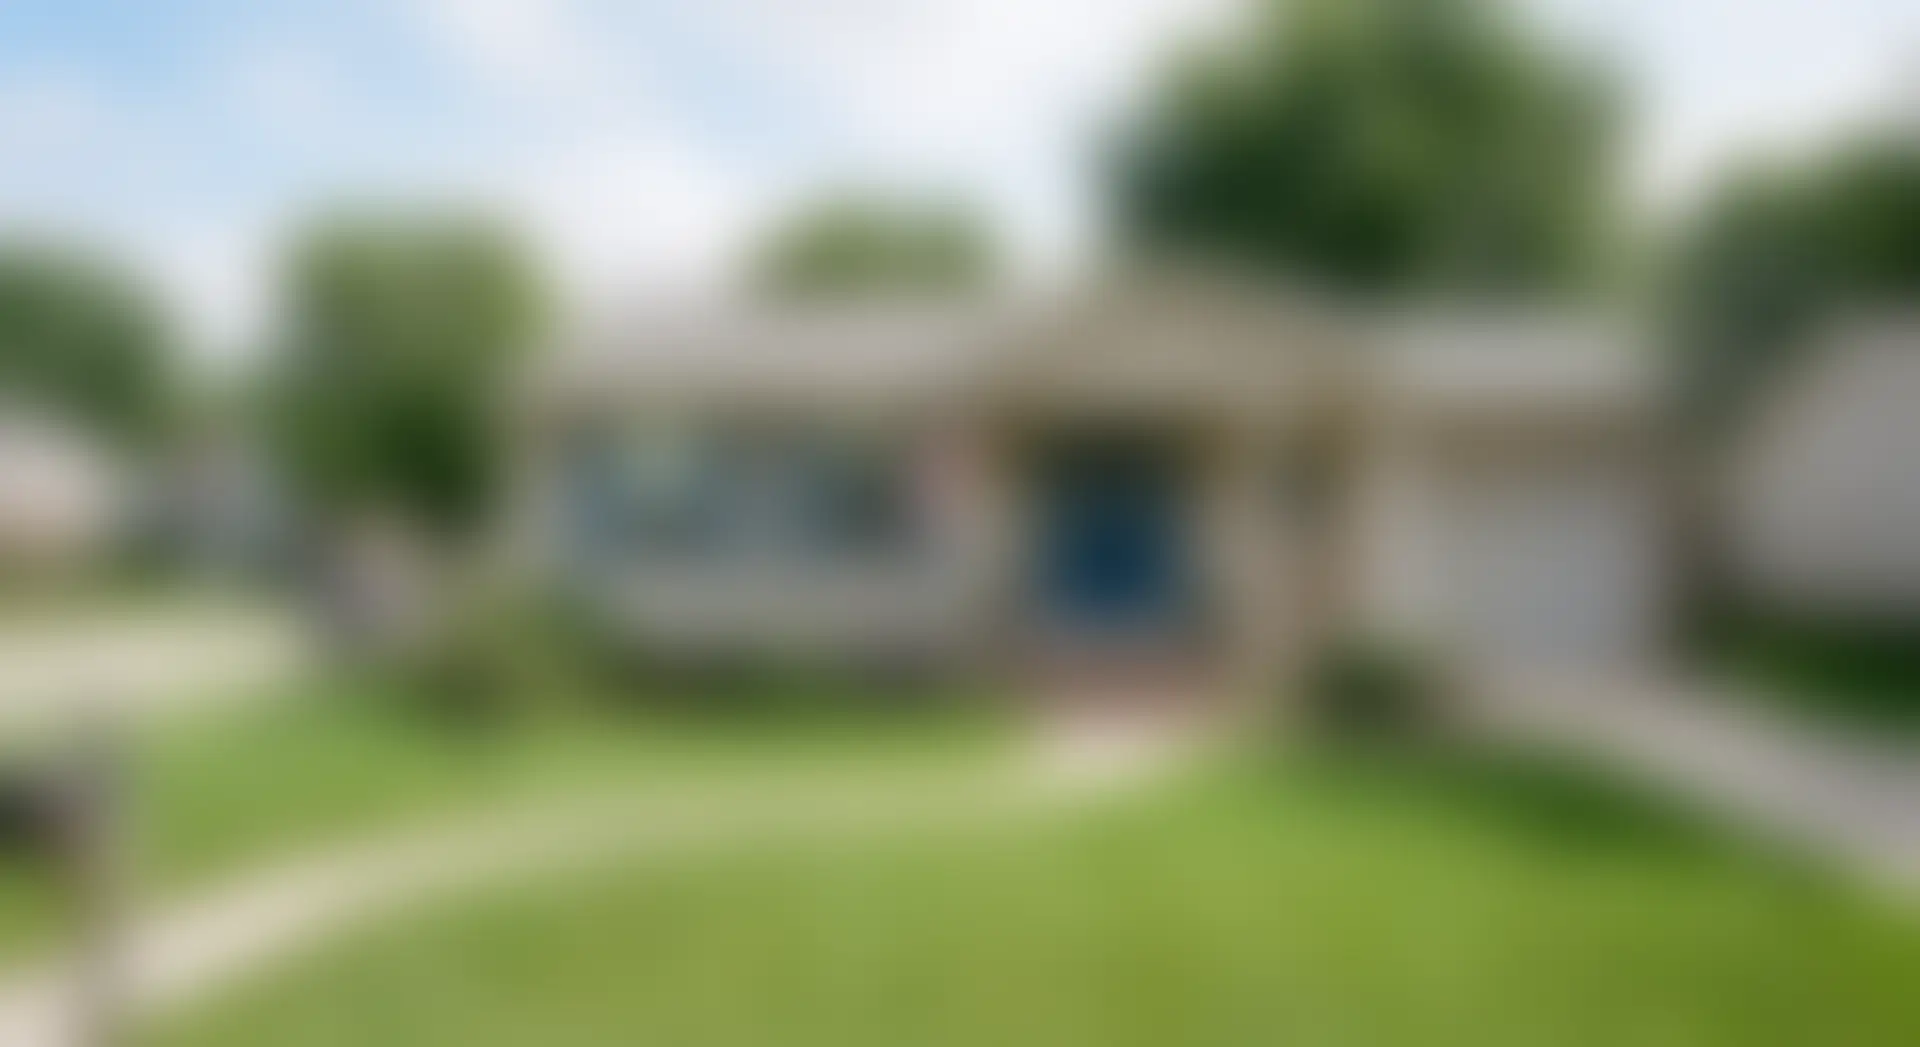
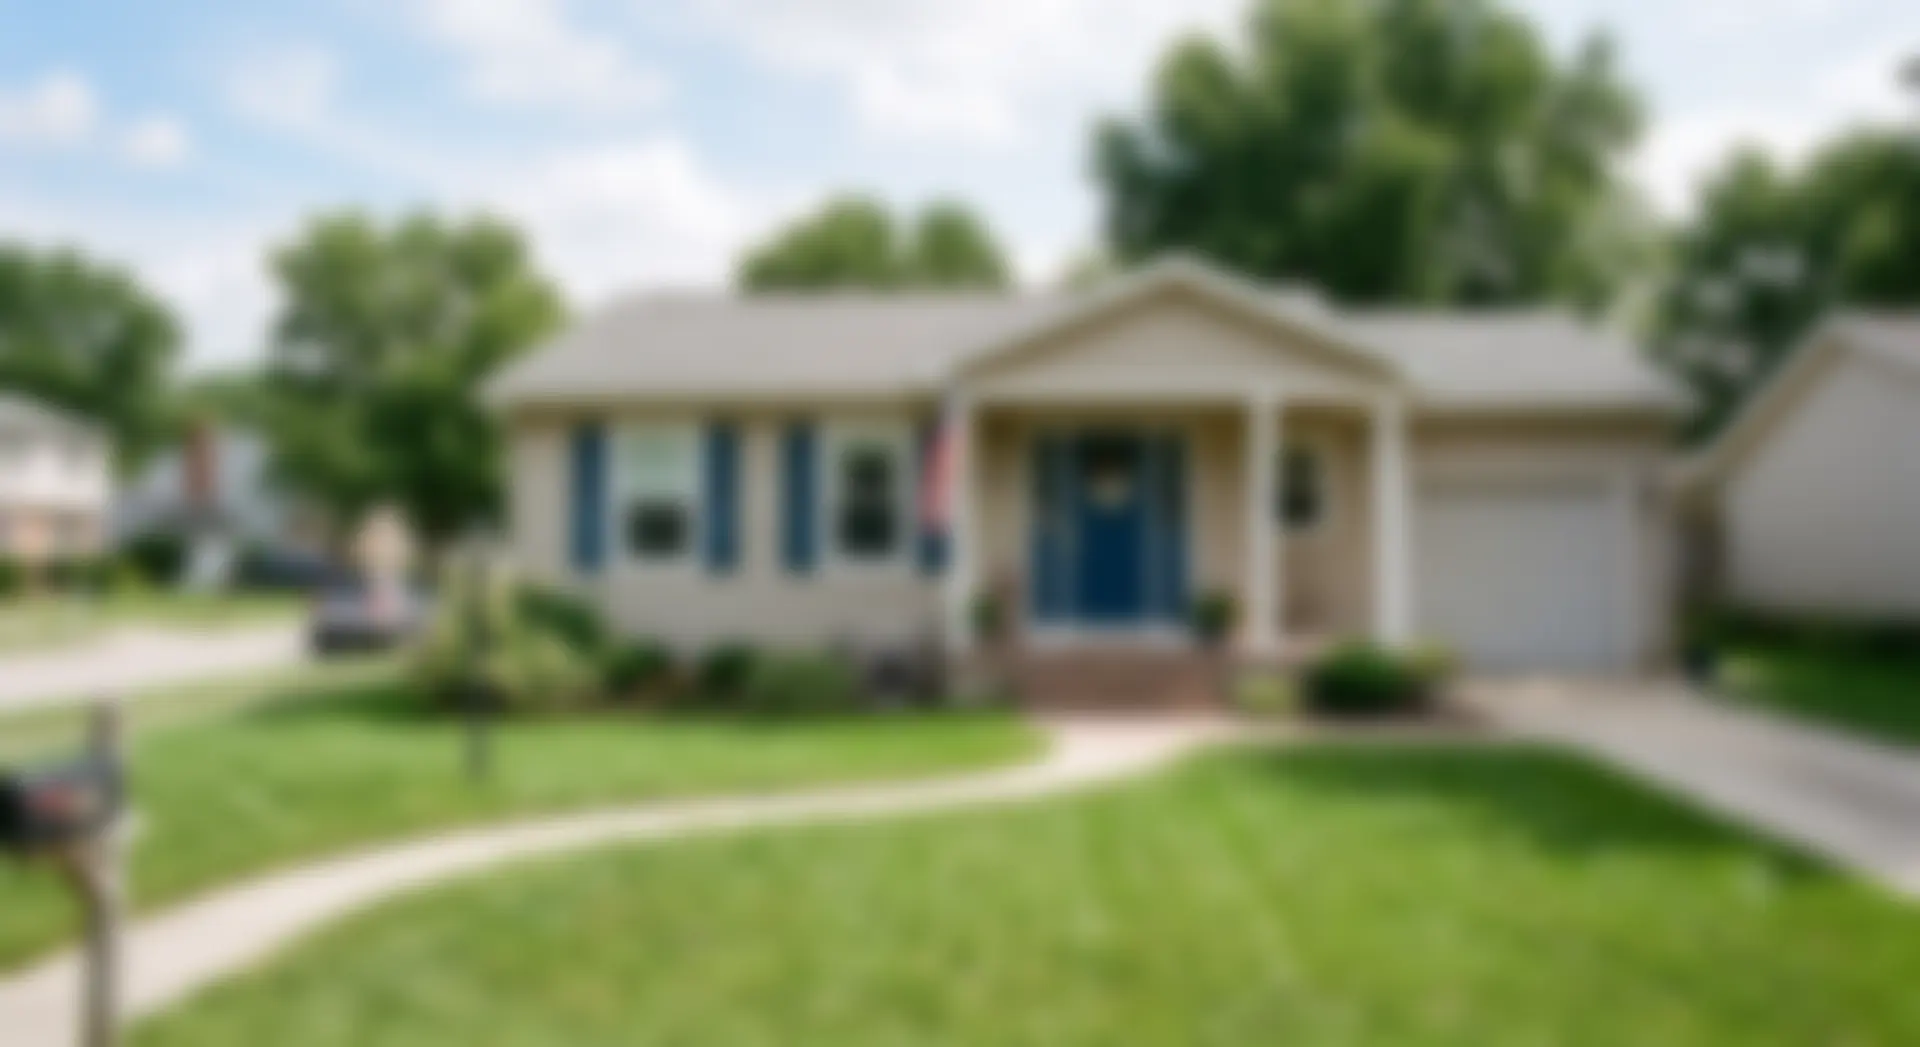
Ease hero frost so the house reads through
The backdrop was over-frosted. Lighter touch on both levers:
- Blur radius roughly halved (recognizable house, still soft)
- Frost gradient opacity cut (~.70/.50/.30 vs .86/.72/.52) so the home is
  legible behind the text while copy + devices stay the focus

diff --git a/index.html b/index.html
@@ -240,7 +240,7 @@
     .hero-bg img { width: 100%; height: 100%; object-fit: cover; display: block; }
     .hero-frost {
       position: absolute; inset: 0; z-index: 1;
-      background: linear-gradient(90deg, rgba(244,239,230,.86) 0%, rgba(244,239,230,.72) 52%, rgba(244,239,230,.52) 100%);
+      background: linear-gradient(90deg, rgba(244,239,230,.70) 0%, rgba(244,239,230,.50) 52%, rgba(244,239,230,.30) 100%);
     }
     #hero .container { position: relative; z-index: 2; }
 